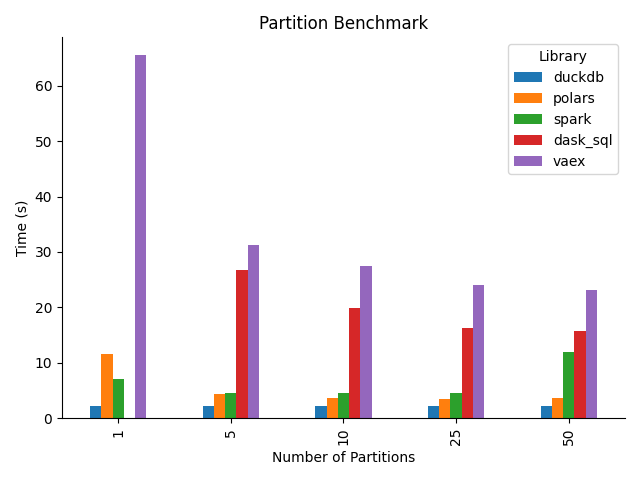
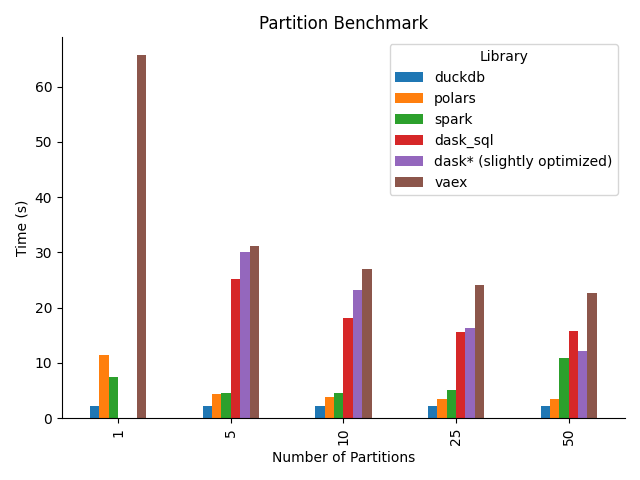
Add column projection to dask

diff --git a/src/medium_data_bakeoff/ingredients/dask.py b/src/medium_data_bakeoff/ingredients/dask.py
@@ -10,7 +10,13 @@ def bake(dataset: str) -> float:
         client = Client(cluster)
         ProgressBar().register()
         start = time.time()
-        df = dd.read_parquet(dataset, index=False)
+        # NOTE: We pass in the relevant columns for the calculation because Dask
+        # currently does not do predicate pushdown. This is noticeably a bit of a cheat
+        # and not fully in the spirit of the bakeoff given that this is somewhat
+        # advanced knowledge that a user coming from pandas may not have.
+        df = dd.read_parquet(
+            dataset, index=False, columns=["station_id", "num_bikes_available"]
+        )
         df.groupby("station_id")["num_bikes_available"].mean().compute()
         stop = time.time()
         client.close()

diff --git a/src/medium_data_bakeoff/bakeoff.py b/src/medium_data_bakeoff/bakeoff.py
@@ -56,10 +56,7 @@ def bakeoff(num_partitions: int) -> None:
     bakeoff = {}
 
     recipe = [
-        # Dask was working on 2022.10.2. It got downgraded to 2022.10.0 after
-        # installing dask-sql, and the benchmark no longer works on my machine. I think
-        # it's running out of memory.
-        # ("dask", bake_dask),
+        ("dask* (slightly optimized)", bake_dask),
         ("dask_sql", bake_dask_sql),
         ("duckdb", bake_duckdb),
         ("polars", bake_polars),

diff --git a/README.md b/README.md
@@ -2,23 +2,26 @@
 
 A simple benchmark for python-based data processing libraries.
 
-Guiding Principles:
+## Guiding Principles:
 
 - Python Only: I have no intention of using another language to process data. That said, non-Python implementations with Python bindings are perfectly fine (e.g. Polars).
 - Single Node: I'm not interested in benchmarking performance on clusters of multiple machines.
 - Simple Implementation: I'm not interested in heavily optimizing the benchmarking implementations. My target user is myself: somebody who largely uses pandas but would like to either speed up their computations or work with larger datasets than fit in memory on their machine.
 
 
-Libraries:
+## Libraries:
 
-- ~~[Dask](https://www.dask.org/)~~ Not currently working on my machine (OOM)
+- [Dask*](https://www.dask.org/)
 - [dask-sql](https://dask-sql.readthedocs.io/en/latest/)
 - [DuckDB](https://duckdb.org/)
 - [Polars](https://www.pola.rs/)
 - [Spark](https://spark.apache.org/docs/latest/api/python/)
 - [Vaex](https://vaex.io/)
 
-Results:
+\*Dask required a slight, non-beginner optimization to successfully run it on my machine. Specifically, I had to do "manual column projection" by passing in the relevant calculation columns when reading in the dataset. I consider the Dask results to be slightly cheating, although this hack [may be resolved](https://github.com/dask/dask/issues/7933) natively in Dask in the not so distant future.
+
+
+## Results:
 
 The following results are from running the benchmark locally on my desktop that has:
 - Intel Core i7-7820X 3.6 GHz 8-core Processor (16 virtual cores, I think)
@@ -27,7 +30,7 @@ The following results are from running the benchmark locally on my desktop that 
 
 Original 50-partition dataset:
 
-![assets/benchmark.png](assets/benchmark.png)
+![assets/benchmark_50.png](assets/benchmark_50.png)
 
 Bakeoff as a function of partitions:
 
@@ -43,7 +46,7 @@ Since 2016, I have been pinging the public API every 2 minutes and storing the r
 
 For the benchmark, I first convert the CSVs to snappy-compressed parquet files. This reduces the dataset down to ~4GB in size on disk.
 
-# Computation
+## Computation
 
 To start, the bakeoff computation is extremely simple. It's almost "word count". I calculate the average number of bikes available at each station across the full time period of the dataset. In SQL, this is basically
 
@@ -108,7 +111,6 @@ docker cp medium-data-bakeoff:/app/results/* .
 
 - Run benchmarks on AWS for reproducibility.
 - Run benchmarks as a function of number of CPUs.
-- Run benchmarks as a function of number of parquet files.
 - Add some harder benchmark computations.
 - Add more libraries (e.g. `cudf`).
 - Benchmark memory usage.
